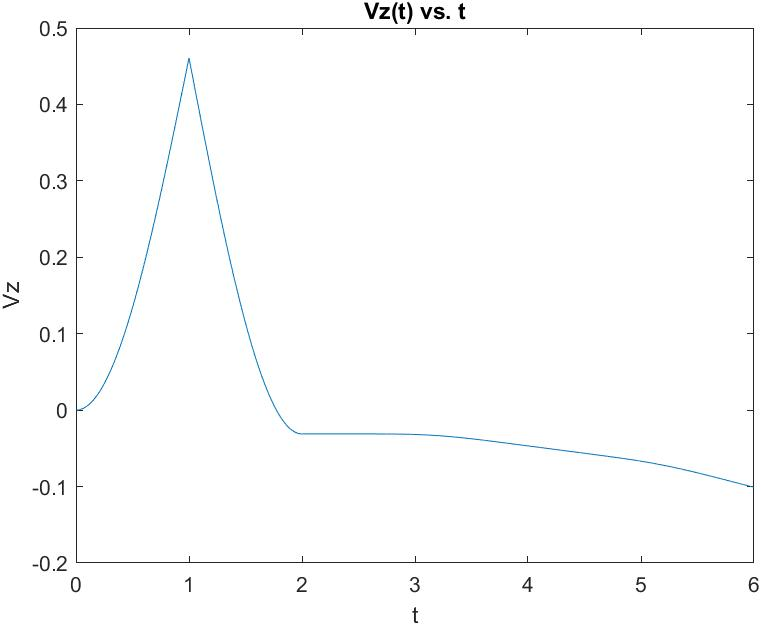
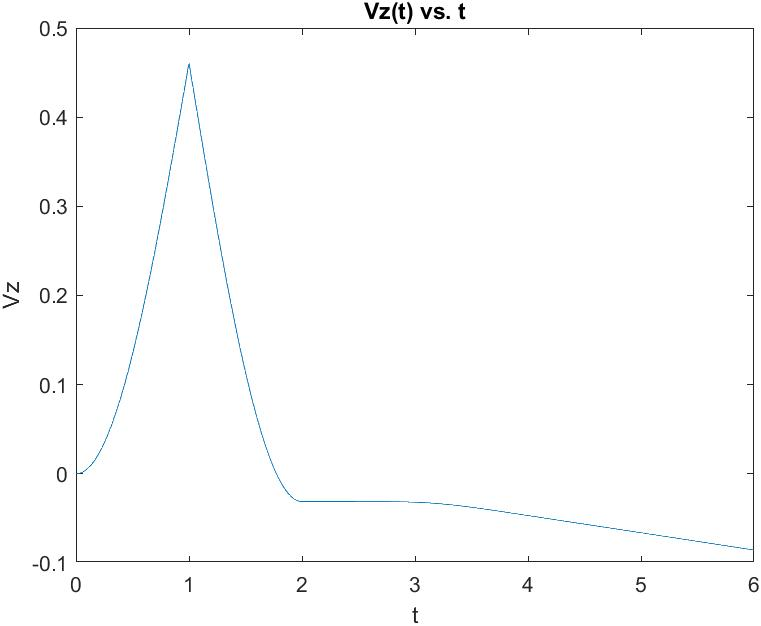
cooking instead of listening it should be good now

diff --git a/AERSP304_Proj2.m b/AERSP304_Proj2.m
@@ -21,7 +21,7 @@ options = odeset('reltol',1e-12,'abstol',1e-12);
 
 % Question 1
 init = [0,0,0,0,0,0,0,0,0,0,0,0] ;
-t = linspace(0,6,6000) ;
+t = linspace(0,6,1200) ;
 [t,d] = ode45(@(t,d) Q1fun(t,d,I), t , init , options);
 
 %Q1 Plots
@@ -106,7 +106,7 @@ exportgraphics(ax,'vz.jpg')
 
 
 % acceleration equation for Q1
-function    rDot = Q1fun(t,d,I)
+function    dDot = Q1fun(t,d,I)
     % pulling consts into function
     g = getG ;
     m = getM ;
@@ -124,16 +124,13 @@ function    rDot = Q1fun(t,d,I)
     y2 = d(4) ;
     z1 = d(5) ;
     z2 = d(6) ;
-    phi1 = d(7) ;
-    phi2 = d(8) ;
-    theta1 = d(9) ;
-    theta2 = d(10) ;
-    psi1 = d(11) ;
-    psi2 = d(12) ;
+    phi = d(7) ;
+    p = d(8) ;
+    theta = d(9) ;
+    q = d(10) ;
+    psi = d(11) ;
+    r = d(12) ;
 
-    phi1dot = phi2 ;
-    theta1dot = theta2 ;
-    psi1dot = psi2 ;
     x1dot = x2 ;
     y1dot = y2 ;
     z1dot = z2 ;
@@ -177,19 +174,31 @@ function    rDot = Q1fun(t,d,I)
         end
     end
     
+    A = [ 1 , 0, sin(theta) ;
+          0 , cos(phi) , cos(theta)*sin(phi) ;
+          0 , -sin(phi) , cos(theta)*cos(phi) ] ;
+    
+    inA = inv(A);
+
     % same fundamental equations use for parts A,B,C
     L = l*k*(-Omega2^2+Omega4^2) ; 
     M = l*k*(-Omega1^2+Omega3^2) ;
     N = b*(Omega1^2-Omega2^2+Omega3^2-Omega4^2) ;
-    phi2dot = L/I(1,1) ;
-    theta2dot = M/I(2,2) ;
-    psi2dot = N/I(3,3) ;
-    x2dot = (k*(Omega1^2+Omega2^2+Omega3^2+Omega4^2)/m) * (cos(psi1)*sin(theta1)*cos(phi1)+sin(psi1)*sin(phi1)) ;
-    y2dot = (k*(Omega1^2+Omega2^2+Omega3^2+Omega4^2)/m) * (sin(phi1)*sin(theta1)*cos(phi1)-cos(psi1)*sin(phi1)) ;
-    z2dot = (k*(Omega1^2+Omega2^2+Omega3^2+Omega4^2)/m) * (cos(phi1)*cos(theta1)) - g ;
+    
+    pdot = ((q*r*(I(3,3)-I(2,2))) + L)/I(1,1) ;
+    rdot = ((p*r*(I(1,1)-I(3,3))) + M)/I(2,2) ;
+    qdot = ((p*q*(I(2,2)-I(1,1))) + N)/I(3,3) ;
+
+    phidot = inA(1,:) * [p,q,r]' ;
+    thetadot = inA(2,:) * [p,q,r]' ;
+    psidot = inA(3,:) * [p,q,r]' ;
+
+    x2dot = (k*(Omega1^2+Omega2^2+Omega3^2+Omega4^2)/m) * (cos(psi)*sin(theta)*cos(phi)+sin(psi)*sin(phi)) ;
+    y2dot = (k*(Omega1^2+Omega2^2+Omega3^2+Omega4^2)/m) * (sin(phi)*sin(theta)*cos(phi)-cos(psi)*sin(phi)) ;
+    z2dot = (k*(Omega1^2+Omega2^2+Omega3^2+Omega4^2)/m) * (cos(phi)*cos(theta)) - g ;
 
     % return
-    rDot = [x1dot; x2dot; y1dot; y2dot; z1dot; z2dot; phi1dot; phi2dot; theta1dot; theta2dot; psi1dot; psi2dot];
+    dDot = [x1dot; x2dot; y1dot; y2dot; z1dot; z2dot; phidot; pdot; thetadot; qdot; psidot; rdot];
 end
 
 
